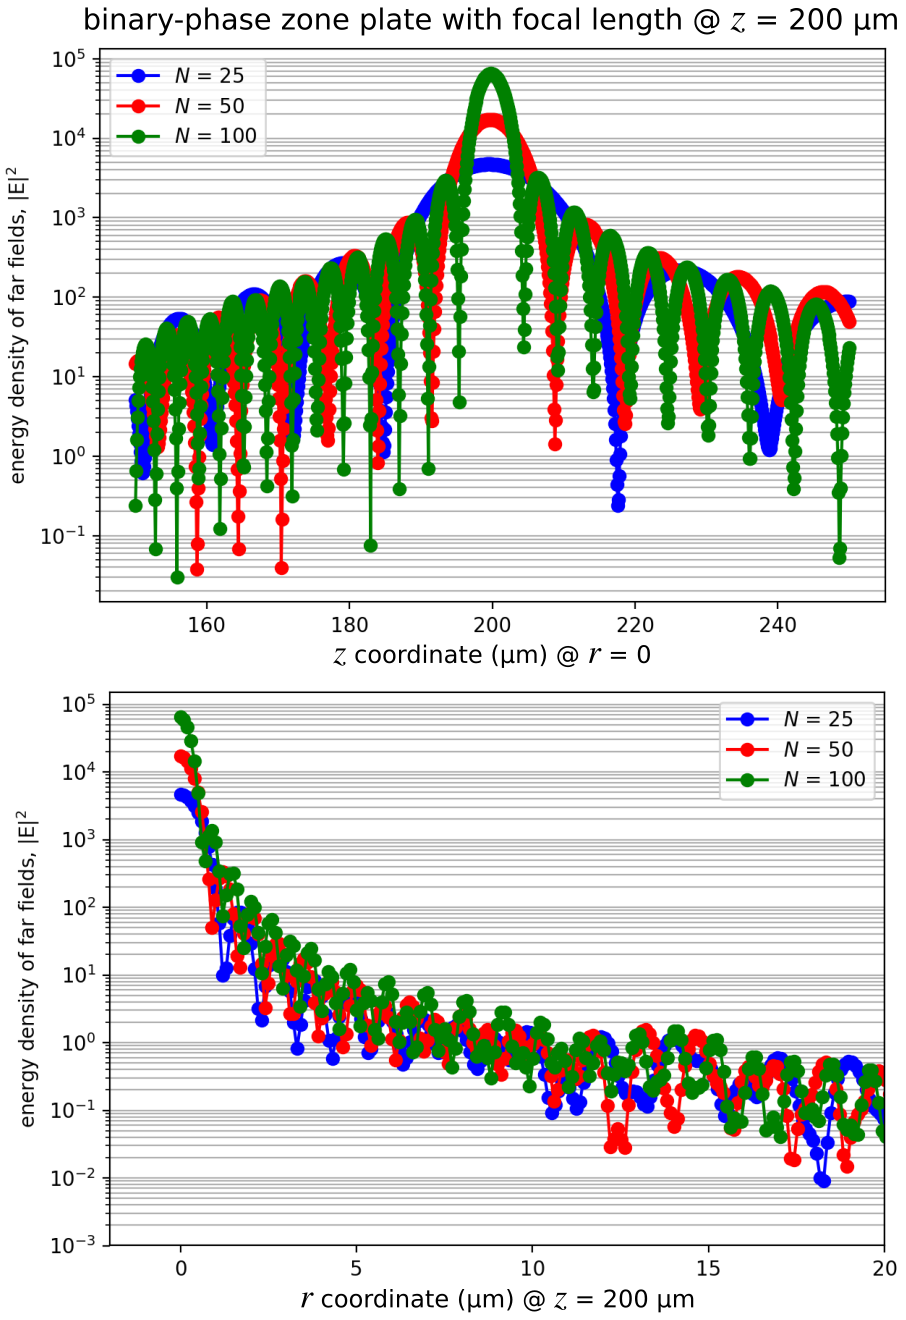
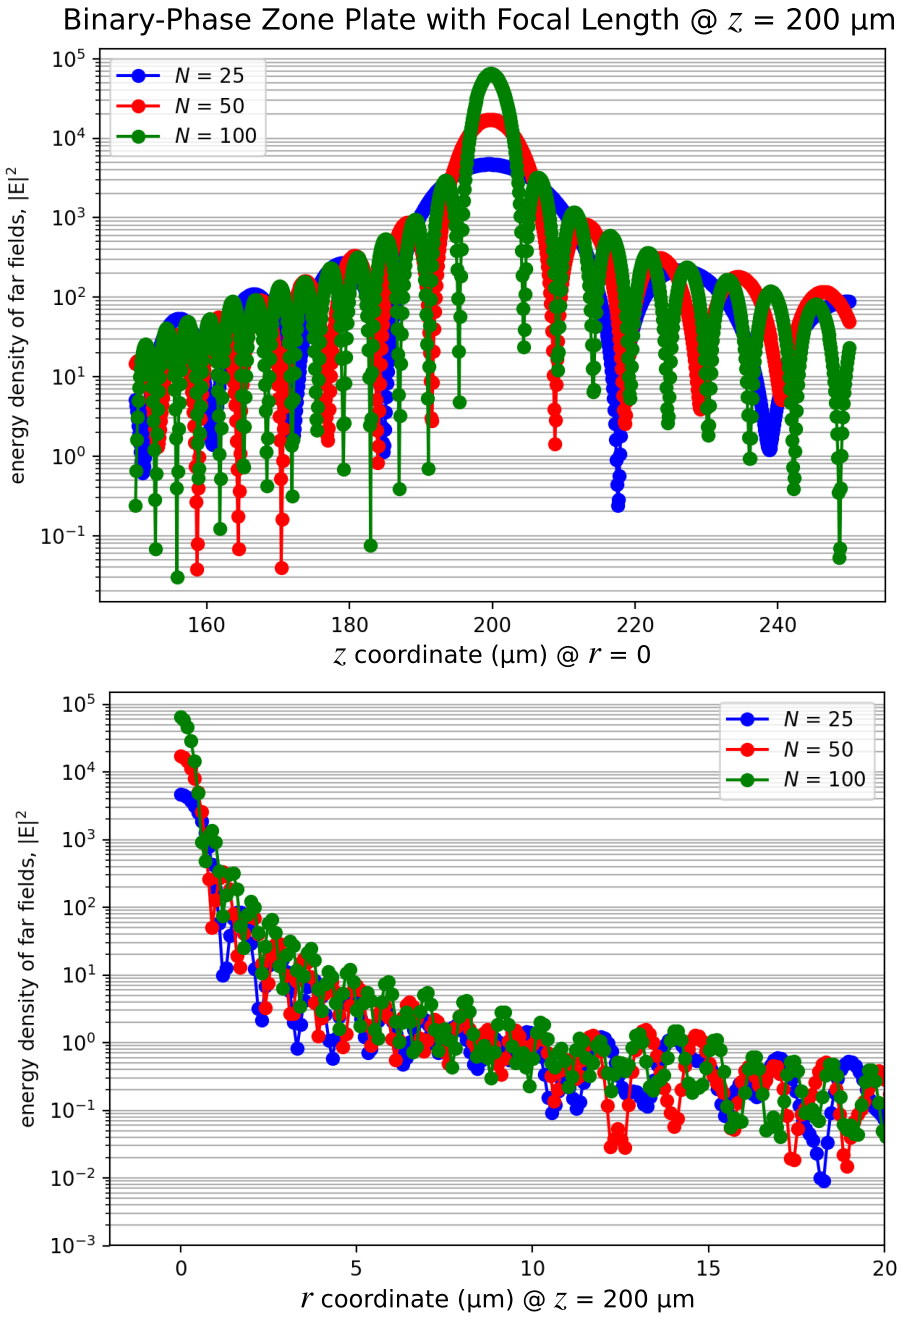
Scheme tutorial for near2far for cylindrical coordinates

Changed region(s): [[0.0618, 0.0, 0.8344, 0.0311], [0.8653, 0.0, 0.989, 0.0311]]

diff --git a/doc/docs/Scheme_Tutorials/Cylindrical_Coordinates.md b/doc/docs/Scheme_Tutorials/Cylindrical_Coordinates.md
@@ -426,3 +426,124 @@ As shown below, the results for the scattering cross section computed using cyli
 <center>
 ![](../images/cylinder_cross_section.png)
 </center>
+
+Focusing Properties of a Binary-Phase Zone Plate
+------------------------------------------------
+
+It is also possible to compute a [near-to-far field transformation](../Scheme_User_Interface.md#near-to-far-field-spectra) in cylindrical coordinates. This is demonstrated in this example for a binary-phase [zone plate](https://en.wikipedia.org/wiki/Zone_plate) which is a rotationally-symmetric diffractive lens used to focus a normally-incident planewave to a single spot.
+
+Using [scalar theory](http://zoneplate.lbl.gov/theory), the radius of the $n$<sup>th</sup> zone can be computed as:
+
+<center>
+$$ r_n^2 = n\lambda (f+\frac{n\lambda}{4})$$
+</center>
+
+
+where $n$ is the zone index (1,2,3,...,$N$), $f$ is the focal length, and $\lambda$ is the operating wavelength. The main design variable is the number of zones $N$. The design specifications of the zone plate are similar to the binary-phase grating in [Tutorial/Mode Decomposition/Diffraction Spectrum of a Binary Grating](Mode_Decomposition.md#diffraction-spectrum-of-a-binary-grating) with refractive index of 1.5 (glass), $\lambda$ of 0.5 μm, and height of 0.5 μm. The focusing property of the zone plate is verified by the concentration of the electric-field energy density at the focal length of 0.2 mm (which lies *outside* the cell). The planewave is incident from within a glass substrate and spans the entire length of the cell in the radial direction. The cell is surrounded on all sides by PML. A schematic of the simulation geometry for a design with 25 zones and flat-surface termination is shown below. The near-field line monitor is positioned at the edge of the PML.
+
+<center>
+![](../images/zone_plate_schematic.png)
+</center>
+
+The simulation script is in [examples/zone-plate.ctl](https://github.com/NanoComp/meep/blob/master/scheme/examples/zone-plate.ctl).
+
+```scm
+(set-param! resolution 25)       ;; pixels/um
+
+(define-param dpml 1.0)          ;; PML thickness
+(define-param dsub 2.0)          ;; substrate thickness
+(define-param dpad 2.0)          ;; padding between zone plate and PML
+(define-param zh 0.5)            ;; zone-plate height
+(define-param zN 25)             ;; number of zones (odd zones: pi phase shift, even zones: none)
+(define-param focal-length 200)  ;; focal length of zone plate
+(define-param spot-length 100)   ;; far-field line length
+(define-param ff-res 10)         ;; far-field resolution (points/um)
+
+(set! pml-layers (list (make pml (thickness dpml))))
+
+(define-param wvl-cen 0.5)
+(define frq-cen (/ wvl-cen))
+(define dfrq (* 0.2 frq-cen))
+
+(define r (map (lambda (n)
+                 (sqrt (* n wvl-cen (+ focal-length (/ (* n wvl-cen) 4)))))
+                 (arith-sequence 1 1 zN)))
+
+(define sr (+ (list-ref r (- zN 1)) dpad dpml))
+(define sz (+ dpml dsub zh dpad dpml))
+(define cell (make lattice (size sr 0 sz)))
+(set! geometry-lattice cell)
+(set! dimensions CYLINDRICAL)
+(set-param! m -1)
+
+(set! sources (list (make source
+                      (src (make gaussian-src (frequency frq-cen) (fwidth dfrq) (is-integrated? true)))
+                      (center (* 0.5 sr) 0 (+ (* -0.5 sz) dpml))
+                      (size sr 0 0)
+                      (component Er))
+                    (make source
+                      (src (make gaussian-src (frequency frq-cen) (fwidth dfrq) (is-integrated? true)))
+                      (center (* 0.5 sr) 0 (+ (* -0.5 sz) dpml))
+                      (size sr 0 0)
+                      (component Ep)
+                      (amplitude 0-1i))))
+
+(define glass (make medium (index 1.5)))
+
+(set! geometry (list (make block
+                       (material glass)
+                       (size sr 0 (+ dpml dsub))
+                       (center (* 0.5 sr) 0 (+ (* -0.5 sz) (* 0.5 (+ dpml dsub)))))))
+
+(set! geometry (append geometry
+                       (map (lambda (n)
+                              (make block
+                                (material (if (= (modulo n 2) 0) glass vacuum))
+                                (size (list-ref r n) 0 zh)
+                                (center (* 0.5 (list-ref r n)) 0 (+ (* -0.5 sz) dpml dsub (* 0.5 zh)))))
+                            (reverse (arith-sequence 0 1 zN)))))
+
+(define n2f-obj (add-near2far frq-cen 0 1
+                         (make near2far-region (center (* 0.5 (- sr dpml)) 0 (- (* 0.5 sz) dpml)) (size (- sr dpml) 0 0))))
+
+(run-sources+ 100)
+
+(output-farfields n2f-obj "r" (volume (center (* 0.5 (- sr dpml)) 0 (+ (* -0.5 sz) dpml dsub zh focal-length)) (size (- sr dpml) 0 0)) ff-res)
+(output-farfields n2f-obj "z" (volume (center 0 0 (+ (* -0.5 sz) dpml dsub zh focal-length)) (size 0 0 spot-length)) ff-res)
+```
+
+Note that the volume specified in `output-farfields` via `center` and `size` is in cylindrical coordinates. These points must therefore lie in the $\phi = 0$ ($rz = xz$) plane. The fields $E$ and $H$ returned by `output-farfields` can be thought of as either cylindrical ($r$,$\phi$,$z$) or Cartesian ($x$,$y$,$z$) coordinates since these are the same in the $\phi = 0$ plane (i.e., $E_r=E_x$ and $E_\phi=E_y$). Also, `output-farfields` tends to gradually *slow down* as the far-field point gets closer to the near-field monitor. This performance degradation is unavoidable and is due to the larger number of $\phi$ integration points required for accurate convergence of the integral involving the Green's function which diverges as the evaluation point approaches the source point.
+
+The energy density of the far fields is computed from the simulation data and plotted using the following Matlab/Octave script.
+
+```matlab
+focal_length = 200;
+spot_length = 100;
+sr = 53.3891;
+dpml = 1.0;
+
+subplot(1,2,1);
+load "zone-plate-r.h5";
+E2_r = abs(ex_r+1j*ex_i).^2 + abs(ey_r+1j*ey_i).^2 + abs(ez_r+1j*ez_i).^2;
+r = linspace(0,sr-dpml,length(E2_r));
+semilogy(r,E2_r,'bo-');
+xlim([-2 20]);
+xlabel('r coordinate (um)');
+ylabel('energy density of far fields, |E|^2');
+set (gca, "yminorgrid", "on");
+
+subplot(1,2,2);
+load "zone-plate-z.h5";
+E2_z = abs(ex_r+1j*ex_i).^2 + abs(ey_r+1j*ey_i).^2 + abs(ez_r+1j*ez_i).^2;
+z = linspace(focal_length-0.5*spot_length,focal_length+0.5*spot_length,length(E2_z));
+semilogy(z,E2_z,'bo-');
+xlabel('z coordinate (um)');
+ylabel('energy density of far fields, |E|^2');
+set (gca, "yminorgrid", "on");
+```
+
+Shown below is the far-field energy-density profile around the focal length for both the *r* and *z* coordinate directions for three lens designs with $N$ of 25, 50, and 100. The focus becomes sharper with increasing $N$ due to the enhanced constructive interference of the diffracted beam. As the number of zones $N$ increases, the size of the focal spot (full width at half maximum) at $z = 200$ μm decreases as $1/\sqrt{N}$ (see eq. 17 of the [reference](http://zoneplate.lbl.gov/theory)). This means that doubling the resolution (halving the spot width) requires quadrupling the number of zones.
+
+<center>
+![](../images/zone_plate_farfield.png)
+</center>

diff --git a/doc/docs/Python_Tutorials/Basics.md b/doc/docs/Python_Tutorials/Basics.md
@@ -431,7 +431,7 @@ We turn to a similar but slightly different example for which there exists an an
 
 A 1d cell must be used since a higher-dimensional cell will introduce [artificial modes due to band folding](../FAQ.md#why-are-there-strange-peaks-in-my-reflectancetransmittance-spectrum-when-modeling-planar-or-periodic-structures). We will use a Gaussian source spanning visible wavelengths of 0.4 to 0.8 μm. Unlike a [continuous-wave](../Python_User_Interface.md#continuoussource) (CW) source, a pulsed source turns off. This enables a termination condition of when there are no fields remaining in the cell (due to absorption by the PMLs) via the [run function](../Python_User_Interface.md#run-functions) `stop_when_fields_decayed`, similar to the previous example.
 
-Creating an oblique planewave source typically requires specifying two parameters: (1) for periodic structures, the Bloch-periodic wavevector $\vec{k}$ via [`k_point`](FAQ.md#how-does-k_point-define-the-phase-relation-between-adjacent-unit-cells), and (2) the source amplitude function `amp_func` for setting the $e^{i\vec{k} \cdot \vec{r}}$ spatial dependence ($\vec{r}$ is the position vector). Since we have a 1d cell and the source is at a single point, it is not necessary to specify the source amplitude (see this [2d example](https://github.com/NanoComp/meep/blob/master/python/examples/pw-source.py) for how this is done). The magnitude of the Bloch-periodic wavevector is specified according to the dispersion relation formula for a planewave in homogeneous media with index n: $\omega=c|\vec{k}|/n$. As the source in this example is incident from air, $|\vec{k}|$ is simply equal to the frequency ω (the minimum frequency of the pulse which excludes the 2π factor). Note that a fixed wavevector only applies to a single frequency. Any broadband source is therefore incident at a specified angle for only a *single* frequency. This is described in more detail in Section 4.5 ("Efficient Frequency-Angle Coverage") in [Chapter 4](https://arxiv.org/abs/1301.5366) ("Electromagnetic Wave Source Conditions") of the book [Advances in FDTD Computational Electrodynamics: Photonics and Nanotechnology](https://www.amazon.com/Advances-FDTD-Computational-Electrodynamics-Nanotechnology/dp/1608071707).
+Creating an oblique planewave source typically requires specifying two parameters: (1) for periodic structures, the Bloch-periodic wavevector $\vec{k}$ via [`k_point`](../FAQ.md#how-does-k_point-define-the-phase-relation-between-adjacent-unit-cells), and (2) the source amplitude function `amp_func` for setting the $e^{i\vec{k} \cdot \vec{r}}$ spatial dependence ($\vec{r}$ is the position vector). Since we have a 1d cell and the source is at a single point, it is not necessary to specify the source amplitude (see this [2d example](https://github.com/NanoComp/meep/blob/master/python/examples/pw-source.py) for how this is done). The magnitude of the Bloch-periodic wavevector is specified according to the dispersion relation formula for a planewave in homogeneous media with index n: $\omega=c|\vec{k}|/n$. As the source in this example is incident from air, $|\vec{k}|$ is simply equal to the frequency ω (the minimum frequency of the pulse which excludes the 2π factor). Note that a fixed wavevector only applies to a single frequency. Any broadband source is therefore incident at a specified angle for only a *single* frequency. This is described in more detail in Section 4.5 ("Efficient Frequency-Angle Coverage") in [Chapter 4](https://arxiv.org/abs/1301.5366) ("Electromagnetic Wave Source Conditions") of the book [Advances in FDTD Computational Electrodynamics: Photonics and Nanotechnology](https://www.amazon.com/Advances-FDTD-Computational-Electrodynamics-Nanotechnology/dp/1608071707).
 
 In this example, the plane of incidence which contains $\vec{k}$ and the surface normal vector is $xz$. The source angle θ is defined in degrees in the counterclockwise (CCW) direction around the $y$ axis with 0 degrees along the +$z$ axis. In Meep, a 1d cell is defined along the $z$ direction. When $\vec{k}$ is not set, only the E<sub>x</sub> and H<sub>y</sub> field components are permitted. A non-zero $\vec{k}$ results in a 3d simulation where all field components are allowed and are complex (the fields are real, by default). A current source with E<sub>x</sub> polarization lies in the plane of incidence and corresponds to the convention of $\mathcal{P}$-polarization. In order to model the $\mathcal{S}$-polarization, we must use an E<sub>y</sub> source. This example involves just the $\mathcal{P}$-polarization.
 

diff --git a/doc/docs/Scheme_Tutorials/Basics.md b/doc/docs/Scheme_Tutorials/Basics.md
@@ -886,7 +886,7 @@ scatt:, 8.2215436693775636
 Modes of a Ring Resonator
 -------------------------
 
-As described in [Introduction](../Introduction.md#resonant-modes), another common task for FDTD simulation is to find the resonant modes &mdash; frequencies and decay rates &mdash; of some cavity structure. You might want to read that again to recall the basic simulation strategy. We will show how this works for a **ring resonator**, which is simply a waveguide bent into a circle. This script can be also found in [examples/ring.ctl](https://github.com/NanoComp/meep/blob/master/scheme/examples/ring.ctl). In fact, since this structure has cylindrical symmetry, we can simulate it much more efficiently [by using cylindrical coordinates](Ring_Resonator_in_Cylindrical_Coordinates.md), but for illustration here we'll just use an ordinary 2d simulation.
+As described in [Introduction](../Introduction.md#resonant-modes), another common task for FDTD simulation is to find the resonant modes &mdash; frequencies and decay rates &mdash; of some cavity structure. You might want to read that again to recall the basic simulation strategy. We will show how this works for a **ring resonator**, which is simply a waveguide bent into a circle. This script can be also found in [examples/ring.ctl](https://github.com/NanoComp/meep/blob/master/scheme/examples/ring.ctl). In fact, since this structure has cylindrical symmetry, we can simulate it much more efficiently [by using cylindrical coordinates](Cylindrical_Coordinates.md#modes-of-a-ring-resonator), but for illustration here we'll just use an ordinary 2d simulation.
 
 As before, we'll define some parameters to describe the geometry, so that we can easily change the structure:
 
@@ -1007,7 +1007,7 @@ Everything else about your simulation is the same: you can still get the fields 
 
 In general, the symmetry of the sources may require some phase. For example, if our source was in the $y$ direction instead of the $z$ direction, then the source would be *odd* under mirror flips through the $x$ axis. We would specify this by `(make mirror-sym (direction Y) (phase -1))`. See [User Interface](../Scheme_User_Interface.md#symmetry) for more symmetry possibilities.
 
-In this case, we actually have a lot more symmetry that we could potentially exploit, if we are willing to restrict the symmetry of our source/fields to a particular angular momentum (i.e. angular dependence $e^{im\phi}$). See also [Tutorial/Ring Resonator in Cylindrical Coordinates](Ring_Resonator_in_Cylindrical_Coordinates.md) for how to solve for modes of this cylindrical geometry much more efficiently.
+In this case, we actually have a lot more symmetry that we could potentially exploit, if we are willing to restrict the symmetry of our source/fields to a particular angular momentum (i.e. angular dependence $e^{im\phi}$). See also [Tutorial/Cylindrical Coordinates/Modes of a Ring Resonator](Cylindrical_Coordinates.md#modes-of-a-ring-resonator) for how to solve for modes of this cylindrical geometry much more efficiently.
 
 Visualizing 3d Structures
 -------------------------

diff --git a/doc/docs/Scheme_User_Interface.md b/doc/docs/Scheme_User_Interface.md
@@ -1191,7 +1191,7 @@ where the $|\hat{p}(\omega)|^2$ normalization is necessary for obtaining the pow
 
 ### Near-to-Far-Field Spectra
 
-Meep can compute a near-to-far-field transformation in the frequency domain as described in [Tutorial/Near-to-Far Field Spectra](Scheme_Tutorials/Near_to_Far_Field_Spectra.md): given the fields on a "near" bounding surface inside the cell, it can compute the fields arbitrarily far away using an analytical transformation, assuming that the "near" surface and the "far" region lie in a single homogeneous non-periodic 2d or 3d region. That is, in a simulation *surrounded by PML* that absorbs outgoing waves, the near-to-far-field feature can compute the fields outside the cell as if the outgoing waves had not been absorbed (i.e. in the fictitious infinite open volume). Moreover, this operation is performed on the Fourier-transformed fields: like the flux and force spectra above, you specify a set of desired frequencies, Meep accumulates the Fourier transforms, and then Meep computes the fields at *each frequency* for the desired far-field points.
+Meep can compute a near-to-far-field transformation in the frequency domain as described in [Tutorial/Near-to-Far Field Spectra](Scheme_Tutorials/Near_to_Far_Field_Spectra.md): given the fields on a "near" bounding surface inside the cell, it can compute the fields arbitrarily far away using an analytical transformation, assuming that the "near" surface and the "far" region lie in a single homogeneous non-periodic 2d, 3d, or cylindrical region. That is, in a simulation *surrounded by PML* that absorbs outgoing waves, the near-to-far-field feature can compute the fields outside the cell as if the outgoing waves had not been absorbed (i.e. in the fictitious infinite open volume). Moreover, this operation is performed on the Fourier-transformed fields: like the flux and force spectra above, you specify a set of desired frequencies, Meep accumulates the Fourier transforms, and then Meep computes the fields at *each frequency* for the desired far-field points.
 
 This is based on the principle of equivalence: given the Fourier-transformed tangential fields on the "near" surface, Meep computes equivalent currents and convolves them with the analytical Green's functions in order to compute the fields at any desired point in the "far" region. For details, see Section 4.2.1 ("The Principle of Equivalence") in [Chapter 4](http://arxiv.org/abs/arXiv:1301.5366) ("Electromagnetic Wave Source Conditions") of the book [Advances in FDTD Computational Electrodynamics: Photonics and Nanotechnology](https://www.amazon.com/Advances-FDTD-Computational-Electrodynamics-Nanotechnology/dp/1608071707).
 

diff --git a/doc/docs/Python_Tutorials/Cylindrical_Coordinates.md b/doc/docs/Python_Tutorials/Cylindrical_Coordinates.md
@@ -559,14 +559,14 @@ if mp.am_master():
     plt.grid(True,axis="y",which="both",ls="-")
     plt.xlabel(r'$z$ coordinate (μm)')
     plt.ylabel(r'energy density of far fields, |E|$^2$')
-    plt.suptitle(r"binary-phase zone plate with focal length $z$ = {} μm".format(focal_length))
+    plt.suptitle(r"Binary-Phase Zone Plate with Focal Length $z$ = {} μm".format(focal_length))
     plt.tight_layout()
     plt.savefig("zone_plate_farfields.png")
 ```
 
 Note that the volume specified in `get_farfields` via `center` and `size` is in cylindrical coordinates. These points must therefore lie in the $\phi = 0$ ($rz = xz$) plane. The fields $E$ and $H$ returned by `get_farfields` can be thought of as either cylindrical ($r$,$\phi$,$z$) or Cartesian ($x$,$y$,$z$) coordinates since these are the same in the $\phi = 0$ plane (i.e., $E_r=E_x$ and $E_\phi=E_y$). Also, `get_farfields` tends to gradually *slow down* as the far-field point gets closer to the near-field monitor. This performance degradation is unavoidable and is due to the larger number of $\phi$ integration points required for accurate convergence of the integral involving the Green's function which diverges as the evaluation point approaches the source point.
 
-Shown below is the far-field energy-density profile around the focal length for both the *r* and *z* coordinate directions for three lens designs with $N$ of 25, 50, and 100. As the number of zones increases, the focal spot (full width at half maximum) at $z = 200$ μm becomes progressively narrower. The focus becomes shaper with increasing $N$ due to the enhanced constructive interference of the diffracted beam.
+Shown below is the far-field energy-density profile around the focal length for both the *r* and *z* coordinate directions for three lens designs with $N$ of 25, 50, and 100. The focus becomes sharper with increasing $N$ due to the enhanced constructive interference of the diffracted beam. As the number of zones $N$ increases, the size of the focal spot (full width at half maximum) at $z = 200$ μm decreases as $1/\sqrt{N}$ (see eq. 17 of the [reference](http://zoneplate.lbl.gov/theory)). This means that doubling the resolution (halving the spot width) requires quadrupling the number of zones.
 
 <center>
 ![](../images/zone_plate_farfield.png)

diff --git a/doc/docs/FAQ.md b/doc/docs/FAQ.md
@@ -150,7 +150,7 @@ Note: in this example, the beam waist is at the source position (i.e., top cente
 
 ### How do I create a circularly-polarized planewave source in cylindrical coordinates?
 
-A circularly-polarized planewave in [cylindrical coordinates](Cylindrical_Coordinates.md) corresponds to E=($\hat{r}$+i$\hat{φ}$)exp(iφ). This can be created using a constant E<sub>r</sub> (radial) current source with `amplitude`=1 and a constant E<sub>p</sub> (φ) current source with `amplitude`=0+1i as well as `m`=1.
+A circularly-polarized planewave in [cylindrical coordinates](Python_Tutorials/Cylindrical_Coordinates.md) corresponds to E=($\hat{r}$+i$\hat{φ}$)exp(iφ). This can be created using a constant E<sub>r</sub> (radial) current source with `amplitude`=1 and a constant E<sub>p</sub> (φ) current source with `amplitude`=0+1i as well as `m`=1.
 
 ### How do I model a moving point charge?
 

diff --git a/doc/docs/Introduction.md b/doc/docs/Introduction.md
@@ -39,7 +39,7 @@ $\nabla \cdot \mathbf{D} = - \int^t \nabla \cdot (\mathbf{J}(t') + \sigma_D \mat
 
 Generally, ε depends not only on position but also on frequency (material dispersion) and on the field **E** itself (nonlinearity), and may include loss or gain. These effects are supported in Meep and are described in [Materials](Materials.md).
 
-For rotationally symmetric geometries, Meep supports simulation in [Cylindrical Coordinates](Cylindrical_Coordinates.md).
+For rotationally symmetric geometries, Meep supports simulation in [Cylindrical Coordinates](Python_Tutorials/Cylindrical_Coordinates.md).
 
 ### Units in Meep
 
